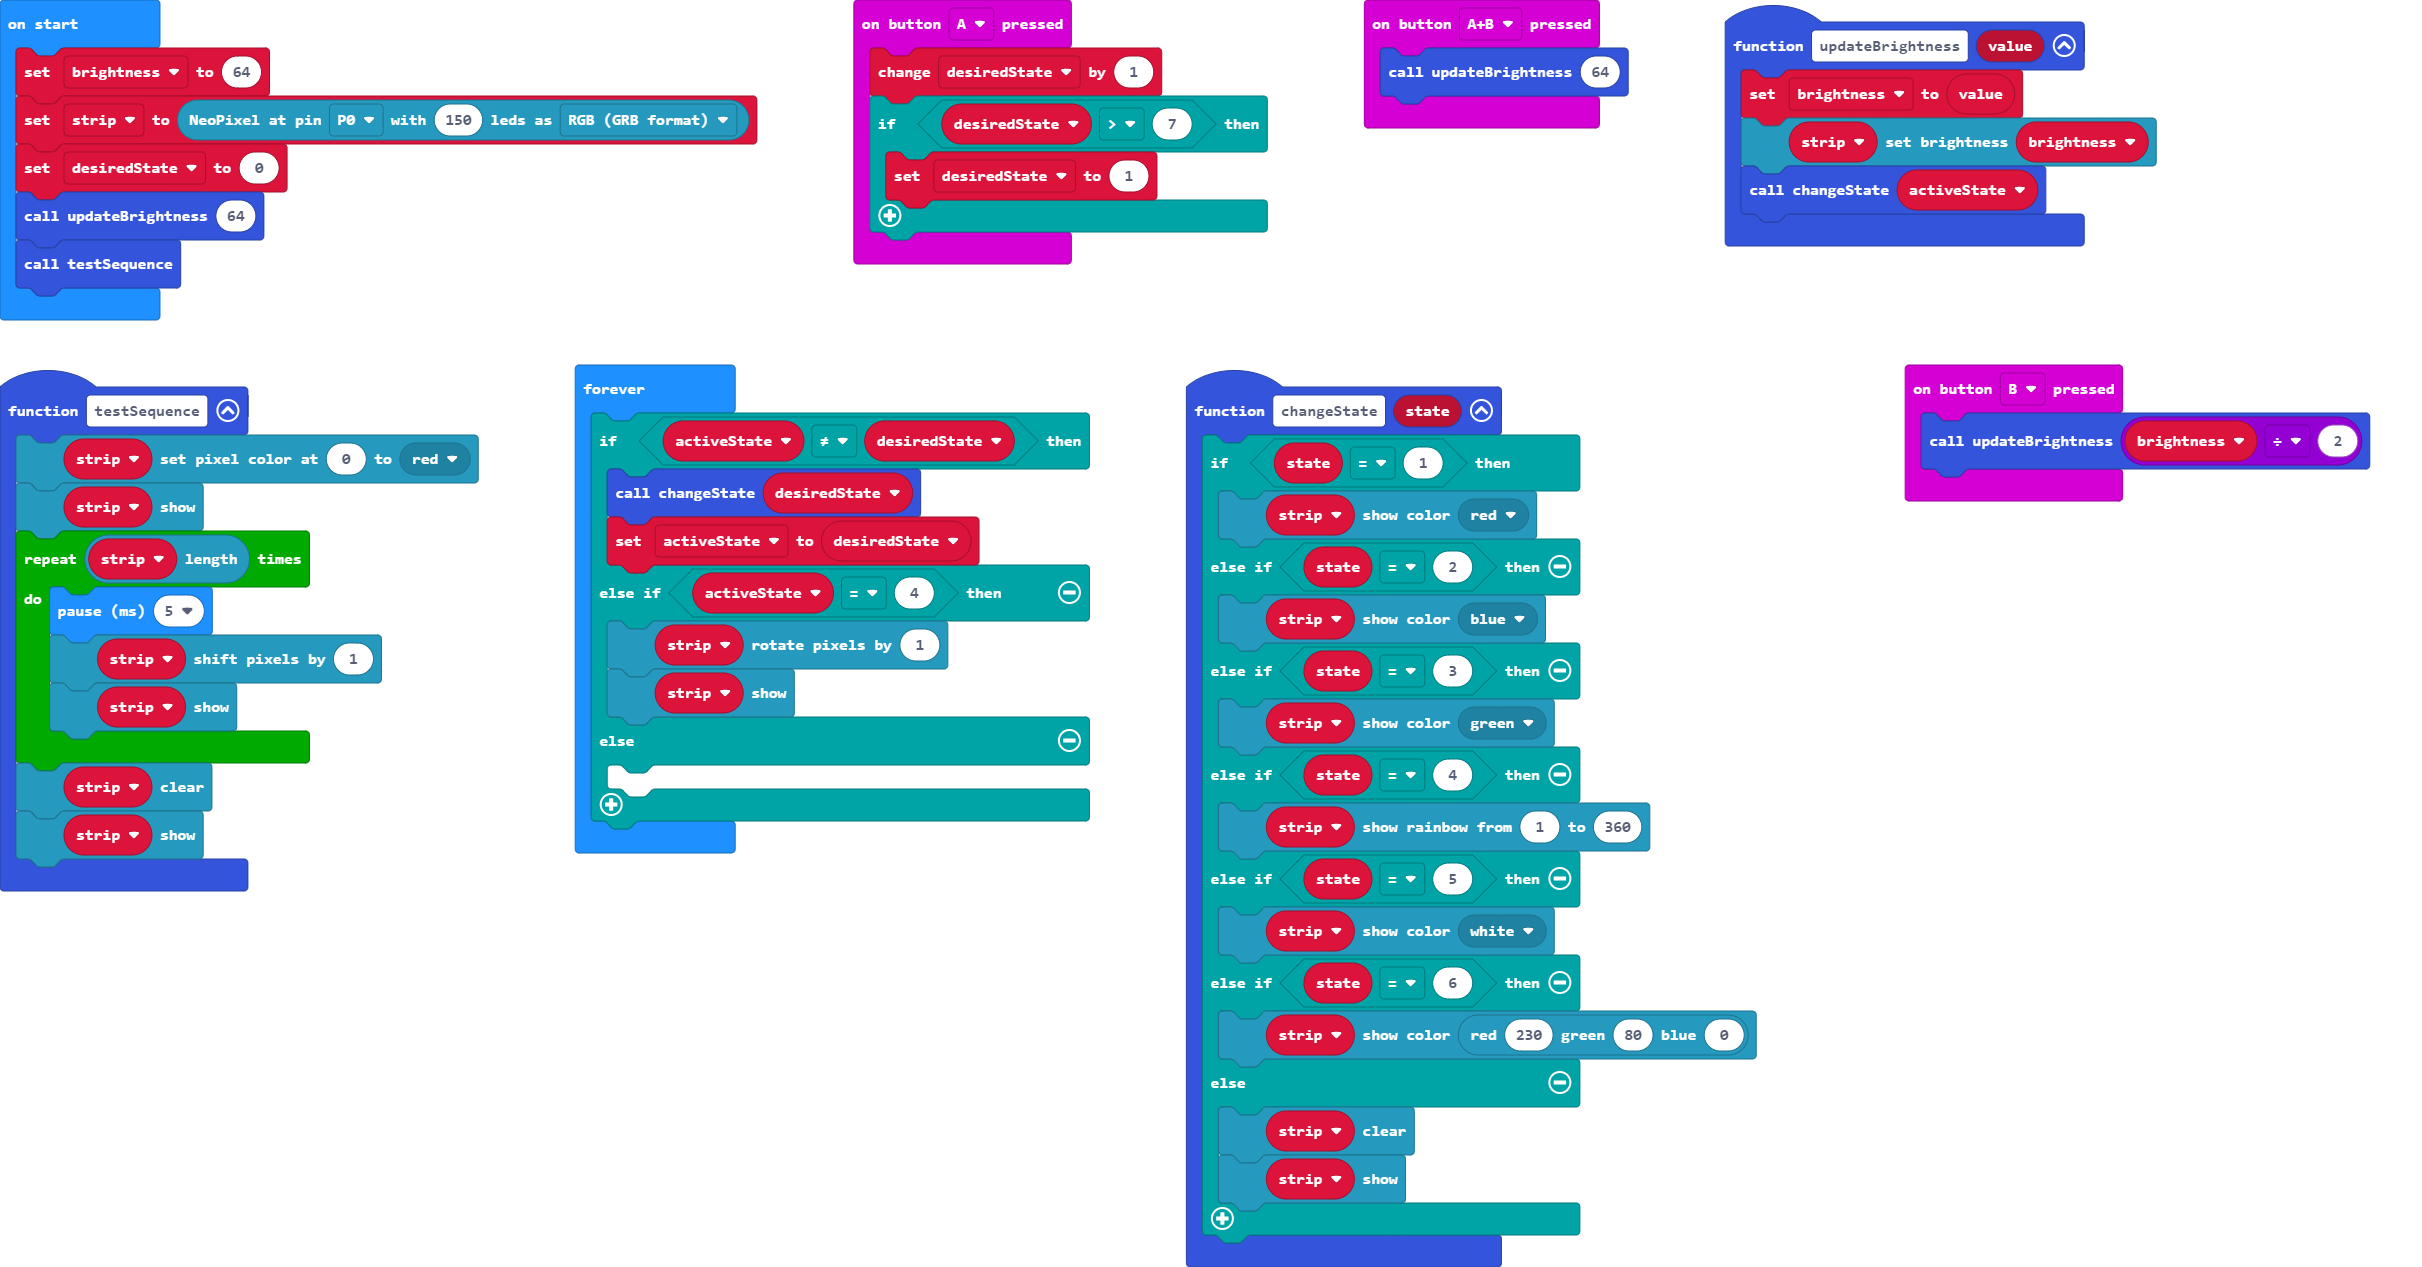
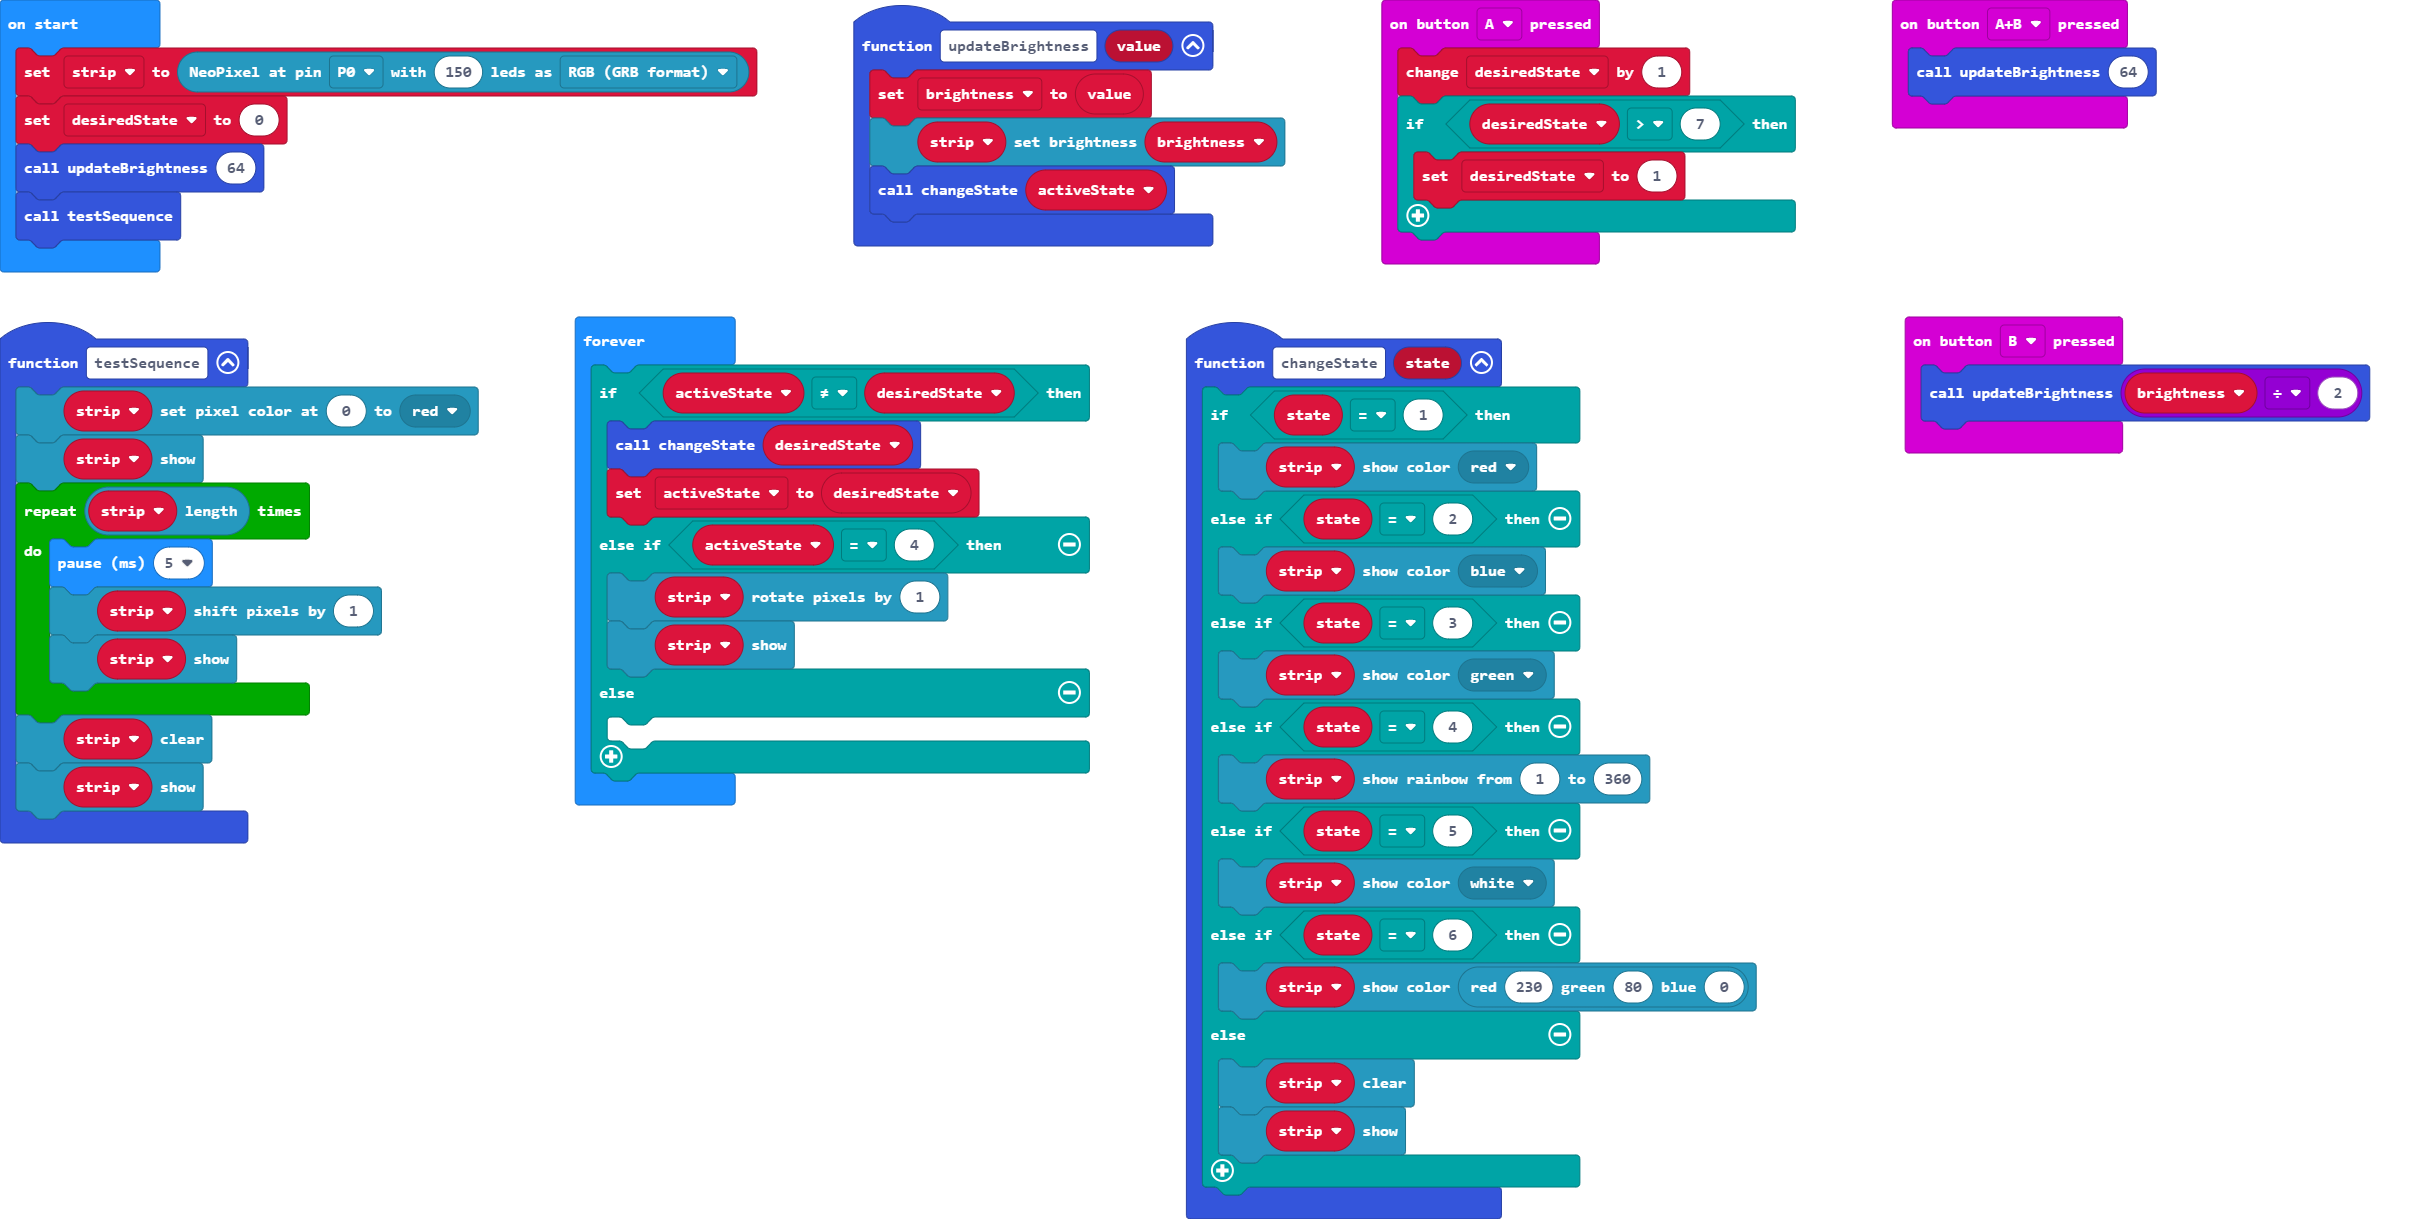
Minor fix

Changed region(s): [[0.0, 0.0, 0.898, 0.717], [0.2168, 0.2494, 0.7432, 0.9664], [0.7742, 0.2494, 0.9909, 0.4053]]

diff --git a/main.ts b/main.ts
@@ -45,10 +45,9 @@ function changeState (state: number) {
     }
 }
 let activeState = 0
+let brightness = 0
 let desiredState = 0
 let strip: neopixel.Strip = null
-let brightness = 0
-brightness = 64
 strip = neopixel.create(DigitalPin.P0, 150, NeoPixelMode.RGB)
 desiredState = 0
 updateBrightness(64)
